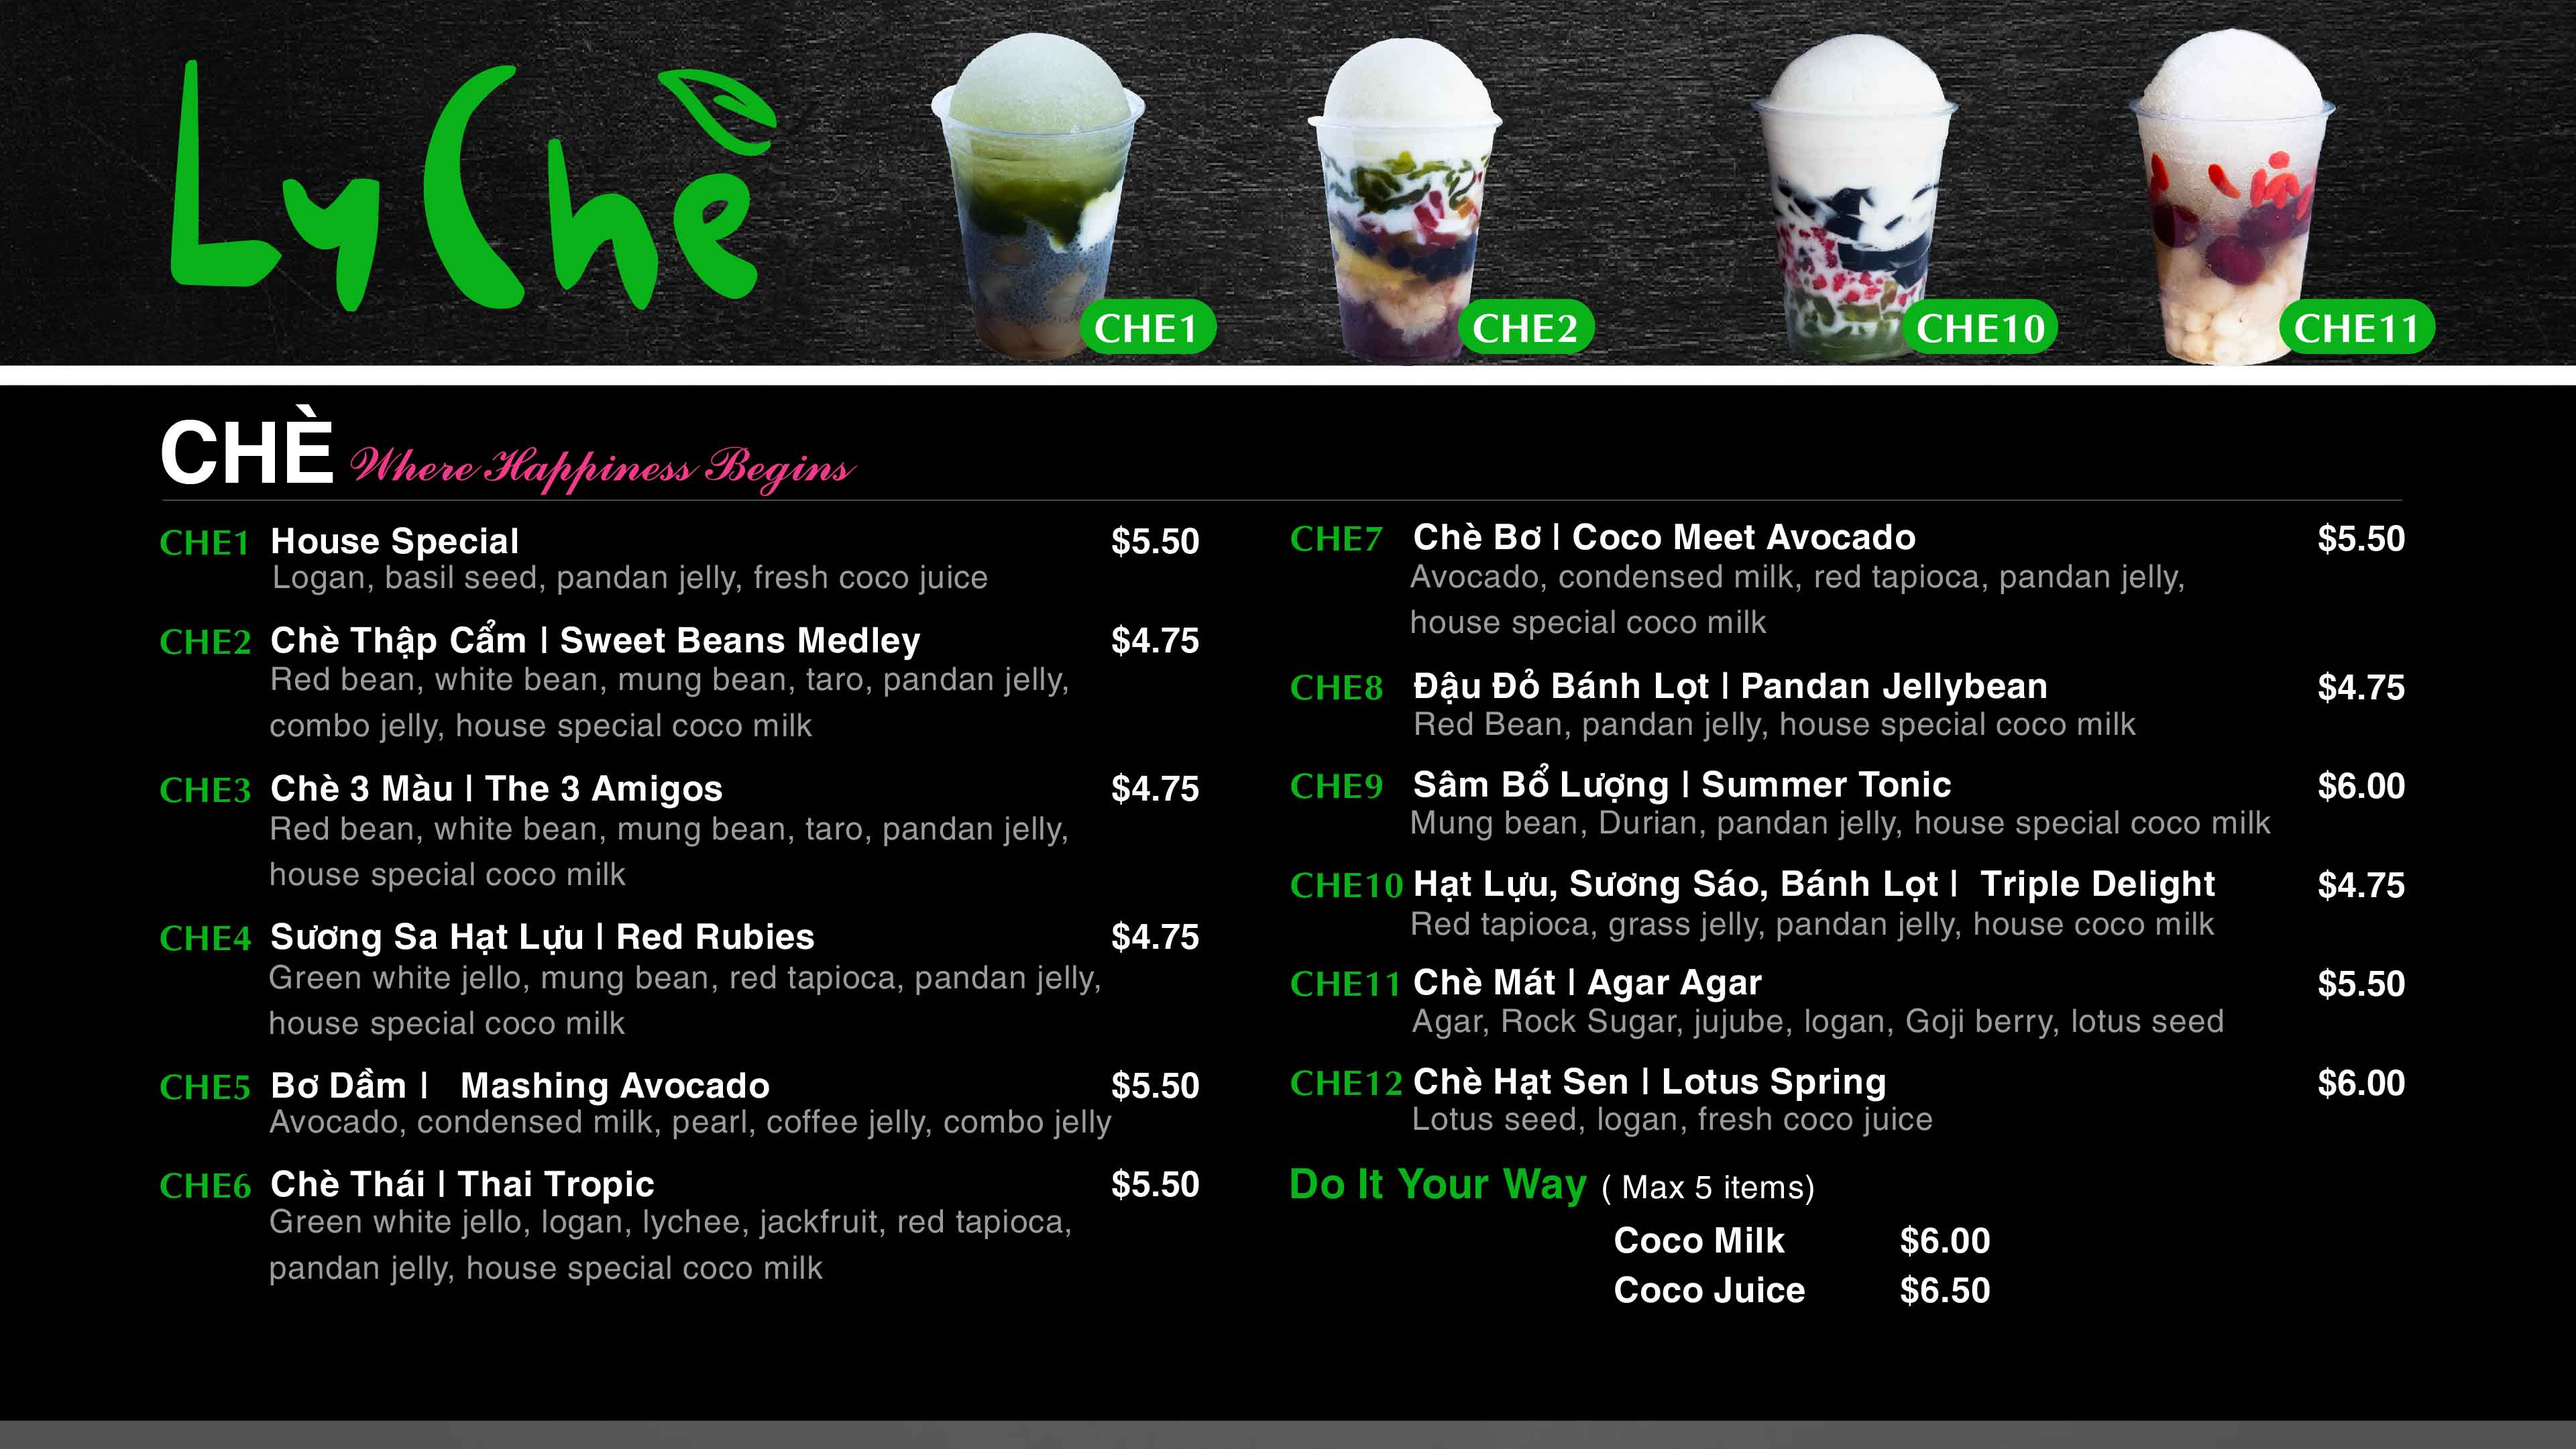
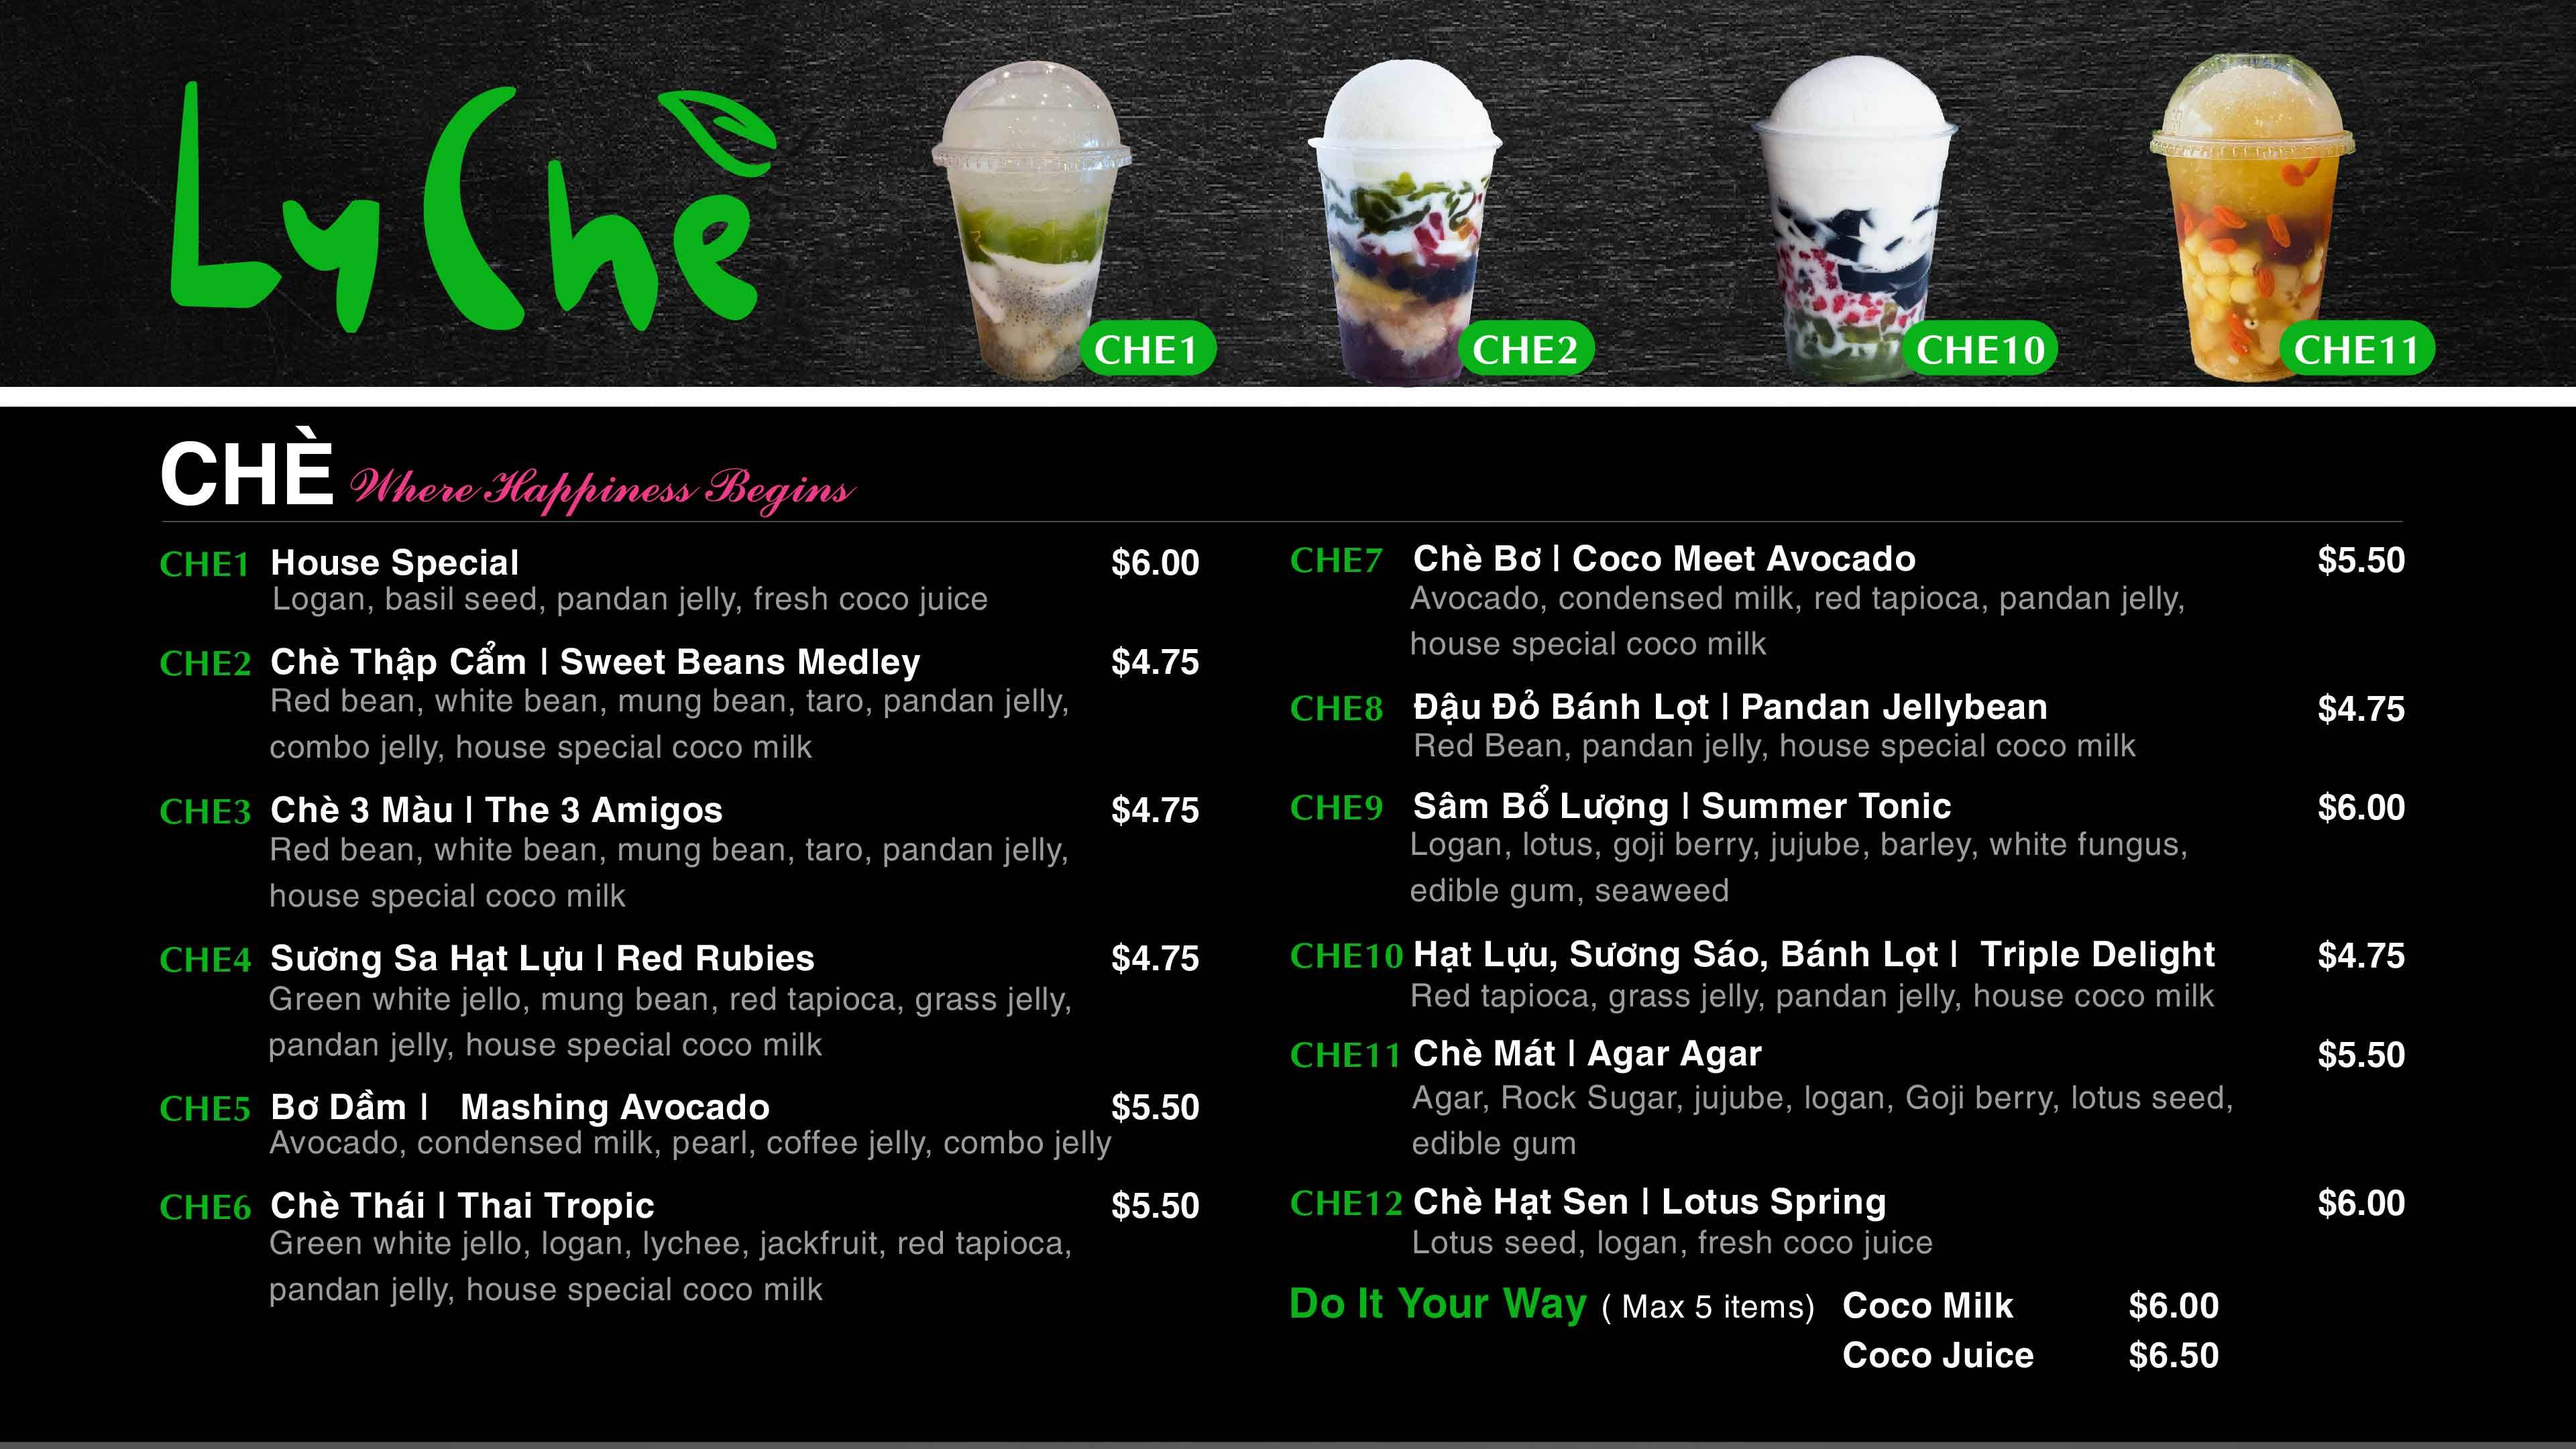
update exprire

diff --git a/src/image/image.js b/src/image/image.js
@@ -1,27 +1,27 @@
 
-import page1 from "./lyche/page1.jpg";
-import page2 from "./lyche/page2.jpg";
-import page3 from "./lyche/page3.jpg";
-// import page4 from "./Tandinh/page4.jpg";
+// import page1 from "./lyche/page1.jpg";
+// import page2 from "./lyche/page2.jpg";
+// import page3 from "./lyche/page3.jpg";
+import page4 from "./lyche/page4.png";
 // import page5 from "./Tandinh/page5.jpg";
 
 const listMenu = [
-  {
-    page: "1",
-    itemsImage: page1,
-  },
-  {
-    page: "2",
-    itemsImage: page2,
-  },
-  {
-    page: "3",
-    itemsImage: page3,
-  },
   // {
-  //   page: "4",
-  //   itemsImage: page4,
+  //   page: "1",
+  //   itemsImage: page1,
   // },
+  // {
+  //   page: "2",
+  //   itemsImage: page2,
+  // },
+  // {
+  //   page: "3",
+  //   itemsImage: page3,
+  // },
+  {
+    page: "4",
+    itemsImage: page4,
+  },
   // {
   //   page: "5",
   //   itemsImage: page5,
